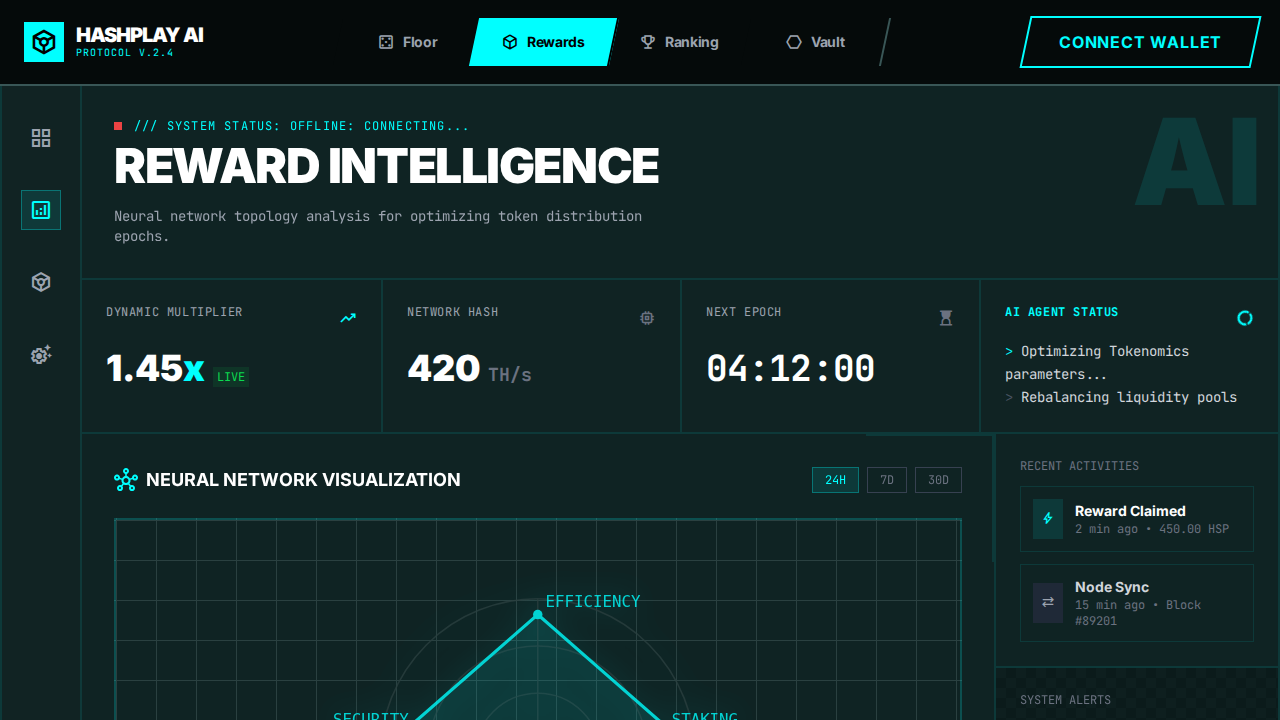
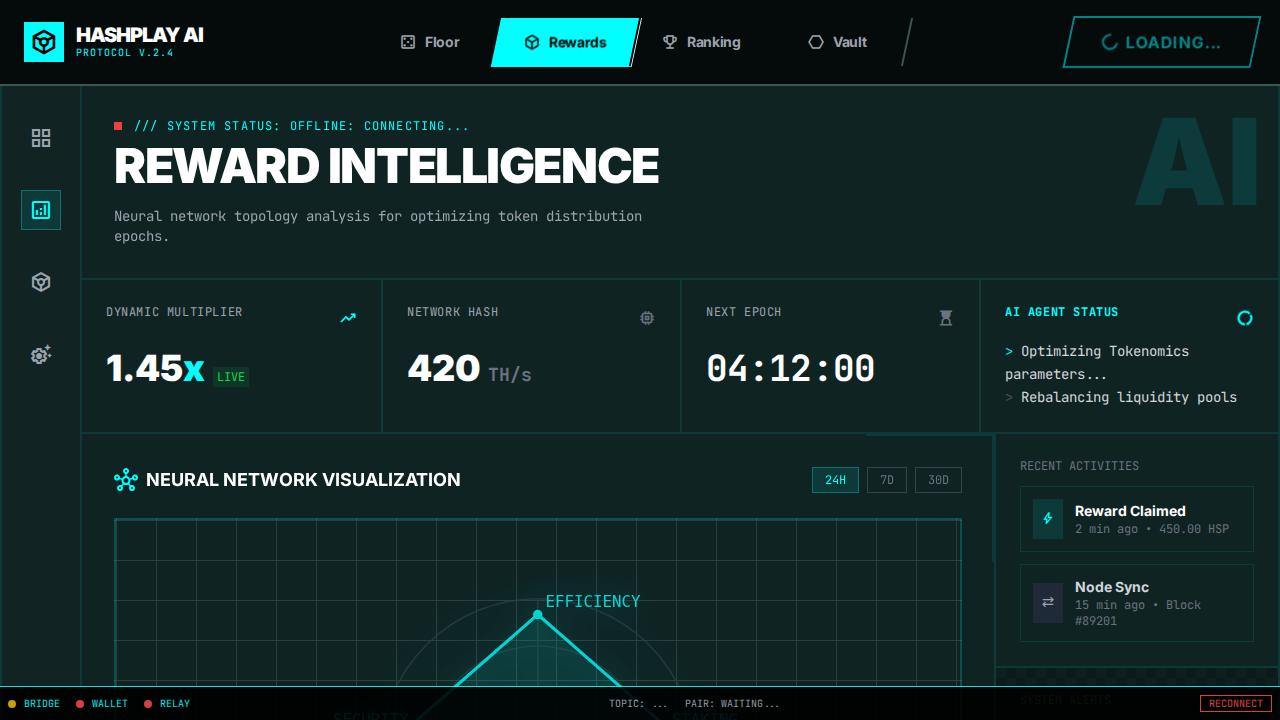
feat: Implement Master Reset logic and Health Check component
- Increased HashConnect pairing modal delay to 1000ms to prevent race conditions.
- Implemented robust 'Master Reset' initialization: clears `localStorage` and calls `clearConnectionsAndData()` on startup to force a clean session.
- Added `HealthCheck` footer component with diagnostic LEDs for Bridge, Wallet, and Relay status.
- Fixed Mobile Connect button visibility issue by ensuring `display: flex` in `Navbar.jsx`.
- Verified functionality with Playwright tests (`verify_master_reset.py`, `verify_mobile_connect_button.py`).

diff --git a/src/services/hashconnect.js b/src/services/hashconnect.js
@@ -112,7 +112,7 @@ export const getSigner = (accountId) => {
     return hashconnect.getSigner(accountId);
 };
 
-export const openModal = () => {
+export const openModal = async () => {
     console.log('Opening HashConnect modal');
 
     // Clear stale pairing string if accessible (best effort based on v3 SDK structure)
@@ -120,12 +120,15 @@ export const openModal = () => {
         hashconnect.hcData.pairingString = '';
     }
 
+    // Delay 1s to allow extension bridge to stabilize if it was just loaded
+    // Master Reset Verification: Increased from 800ms to 1000ms per user request
+    await new Promise(resolve => setTimeout(resolve, 1000));
+
     if (extensionFound) {
         console.log('Extension found, proceeding with connection...');
         hashconnect.connectToLocalWallet();
     } else {
         console.log('Extension not found, opening pairing modal...');
-        // Init is async awaited before button is active, so manual delay is removed
         hashconnect.openPairingModal();
     }
 };

diff --git a/src/components/layout/HealthCheck.jsx b/src/components/layout/HealthCheck.jsx
@@ -19,7 +19,7 @@ export const HealthCheck = () => {
             // For simplicity, we'll re-check the global state.
 
             // We can infer relay status from whether we have a topic or pairing string without error
-            const isRelayActive = !!state.pairingString || !!state.topic;
+            const isRelayActive = !!state.pairingString || (state.topic && state.topic !== "Unknown");
 
             setStatus({
                 bridge: true, // If this component mounts and updateStatus runs after init, we assume init passed the blocking stage

diff --git a/verification/verify_master_reset.py b/verification/verify_master_reset.py
@@ -1,0 +1,72 @@
+import re
+from playwright.sync_api import sync_playwright, expect
+
+def run():
+    with sync_playwright() as p:
+        browser = p.chromium.launch(headless=True)
+        context = browser.new_context()
+        page = context.new_page()
+
+        print("Navigating to local deployment...")
+        page.goto("http://localhost:5173")
+
+        # Wait for HealthCheck footer
+        health_check = page.locator("div.fixed.bottom-0")
+        expect(health_check).to_be_visible()
+        print("HealthCheck footer is visible.")
+
+        # Check for LEDs
+        bridge_led = health_check.locator("div.rounded-full").nth(0)
+        wallet_led = health_check.locator("div.rounded-full").nth(1)
+        relay_led = health_check.locator("div.rounded-full").nth(2)
+
+        # Bridge LED might start yellow (pulse) then turn green
+        expect(bridge_led).to_have_class(re.compile(r"bg-(green|yellow)-500"))
+        print("Bridge LED verified.")
+
+        expect(wallet_led).to_have_class(re.compile(r"bg-(green|red)-500"))
+        print("Wallet LED verified.")
+
+        # Relay LED should be RED if disconnected
+        expect(relay_led).to_have_class(re.compile(r"bg-red-500"))
+        print("Relay LED verified (RED).")
+
+        console_logs = []
+        page.on("console", lambda msg: console_logs.append(msg.text))
+
+        # Wait for "Loading..." to disappear and "Connect" to appear
+        # The button exists but text changes
+        connect_btn = page.locator("header button")
+
+        # Wait for button to be enabled (meaning bridge ready)
+        # It might take up to 5s (timeout) + a bit
+        try:
+            # Check if we can find a button that eventually says "Connect"
+            btn_with_text = connect_btn.filter(has_text="Connect").first
+            btn_with_text.wait_for(state="visible", timeout=8000)
+            print("Connect button is visible and ready.")
+
+            if btn_with_text.is_disabled():
+                print("Connect button is disabled.")
+            else:
+                btn_with_text.click()
+                print("Clicked Connect button.")
+
+                page.wait_for_timeout(2000)
+
+                found_modal_log = any("Opening HashConnect modal" in log for log in console_logs)
+                if found_modal_log:
+                    print("Log 'Opening HashConnect modal' found.")
+                else:
+                    print("Log 'Opening HashConnect modal' NOT found.")
+
+        except Exception as e:
+            print(f"Error finding/clicking connect button: {e}")
+            # debugging
+            print("Page content snippet:")
+            print(page.content()[:500])
+
+        browser.close()
+
+if __name__ == "__main__":
+    run()

diff --git a/verification/final_visual_verification.py b/verification/final_visual_verification.py
@@ -1,0 +1,56 @@
+from playwright.sync_api import sync_playwright, expect
+
+def run():
+    with sync_playwright() as p:
+        browser = p.chromium.launch(headless=True)
+
+        # Scenario 1: Desktop View - Health Check & Header
+        context = browser.new_context(viewport={"width": 1440, "height": 900})
+        page = context.new_page()
+
+        print("Navigating to Desktop view...")
+        page.goto("http://localhost:5173")
+
+        # Wait for HealthCheck
+        health_check = page.locator("div.fixed.bottom-0")
+        expect(health_check).to_be_visible()
+
+        # Wait for Connect Button to be ready (shows "Connect")
+        connect_btn = page.locator("header button").filter(has_text="Connect").first
+        try:
+            connect_btn.wait_for(state="visible", timeout=10000)
+            print("Connect button ready.")
+        except:
+            print("Connect button timed out.")
+
+        # Take screenshot of the whole page
+        page.screenshot(path="verification/desktop_overview.png")
+
+        # Take screenshot of the Health Check specifically
+        health_check.screenshot(path="verification/health_check_component.png")
+        print("Captured Health Check component.")
+
+        # Scenario 2: Mobile View - Header visibility
+        context_mobile = browser.new_context(viewport={"width": 390, "height": 844})
+        page_mobile = context_mobile.new_page()
+
+        print("Navigating to Mobile view...")
+        page_mobile.goto("http://localhost:5173")
+
+        # Wait for Connect Button on mobile
+        connect_btn_mobile = page_mobile.locator("header button").filter(has_text="Connect").first
+        try:
+            connect_btn_mobile.wait_for(state="visible", timeout=10000)
+            print("Mobile Connect button ready.")
+        except:
+             print("Mobile Connect button timed out.")
+
+        # Take screenshot of the mobile header
+        header = page_mobile.locator("header")
+        header.screenshot(path="verification/mobile_header.png")
+        print("Captured Mobile Header.")
+
+        browser.close()
+
+if __name__ == "__main__":
+    run()

diff --git a/verification/verify_mobile_connect_button.py b/verification/verify_mobile_connect_button.py
@@ -1,0 +1,33 @@
+from playwright.sync_api import sync_playwright, expect
+
+def run():
+    with sync_playwright() as p:
+        browser = p.chromium.launch(headless=True)
+        # Mobile viewport (iPhone 12 Pro dimensions)
+        context = browser.new_context(viewport={"width": 390, "height": 844})
+        page = context.new_page()
+
+        print("Navigating to mobile view...")
+        page.goto("http://localhost:5173")
+        page.wait_for_selector("text=HashPlay AI") # Wait for load
+
+        # Wait for "Connect" text inside button (meaning bridge ready)
+        # Selector for SkewButton inside Navbar header
+        connect_btn = page.locator("header button")
+
+        try:
+            # Wait for text "Connect" (case sensitive usually) or partial match
+            # "Connect" is the text when ready and disconnected
+            btn_with_text = connect_btn.filter(has_text="Connect").first
+            btn_with_text.wait_for(state="visible", timeout=10000)
+            print("PASS: Connect button became visible on mobile.")
+        except Exception as e:
+            print(f"FAIL: Connect button timed out or never showed 'Connect': {e}")
+            # debugging
+            print("Page content snippet:")
+            print(page.content()[:500])
+
+        browser.close()
+
+if __name__ == "__main__":
+    run()

diff --git a/verification/verify_storage_cleared.py b/verification/verify_storage_cleared.py
@@ -1,0 +1,24 @@
+from playwright.sync_api import sync_playwright
+
+with sync_playwright() as p:
+    browser = p.chromium.launch()
+    page = browser.new_page()
+
+    # Pre-set some garbage data to simulate stale session
+    page.add_init_script("localStorage.setItem('hashconnectData', '{\"garbage\": \"true\"}')")
+
+    print("Navigating to app...")
+    page.goto("http://localhost:5173")
+
+    # Wait for init to likely happen (it happens in useEffect on mount)
+    page.wait_for_timeout(2000)
+
+    # Check storage
+    data = page.evaluate("localStorage.getItem('hashconnectData')")
+
+    if data is None:
+        print("PASS: hashconnectData was cleared from localStorage.")
+    else:
+        print(f"FAIL: hashconnectData still exists: {data}")
+
+    browser.close()

diff --git a/verification/verify_rewards.py b/verification/verify_rewards.py
@@ -6,8 +6,8 @@ def run(playwright):
     page = browser.new_page()
 
     # Navigate to the Reward Intelligence page
-    # The preview server runs on port 4173 by default
-    page.goto("http://localhost:4173/rewards")
+    # The preview server runs on port 5173 by default
+    page.goto("http://localhost:5173/rewards")
 
     # Wait for the page to load
     page.wait_for_selector("text=Reward Intelligence")
